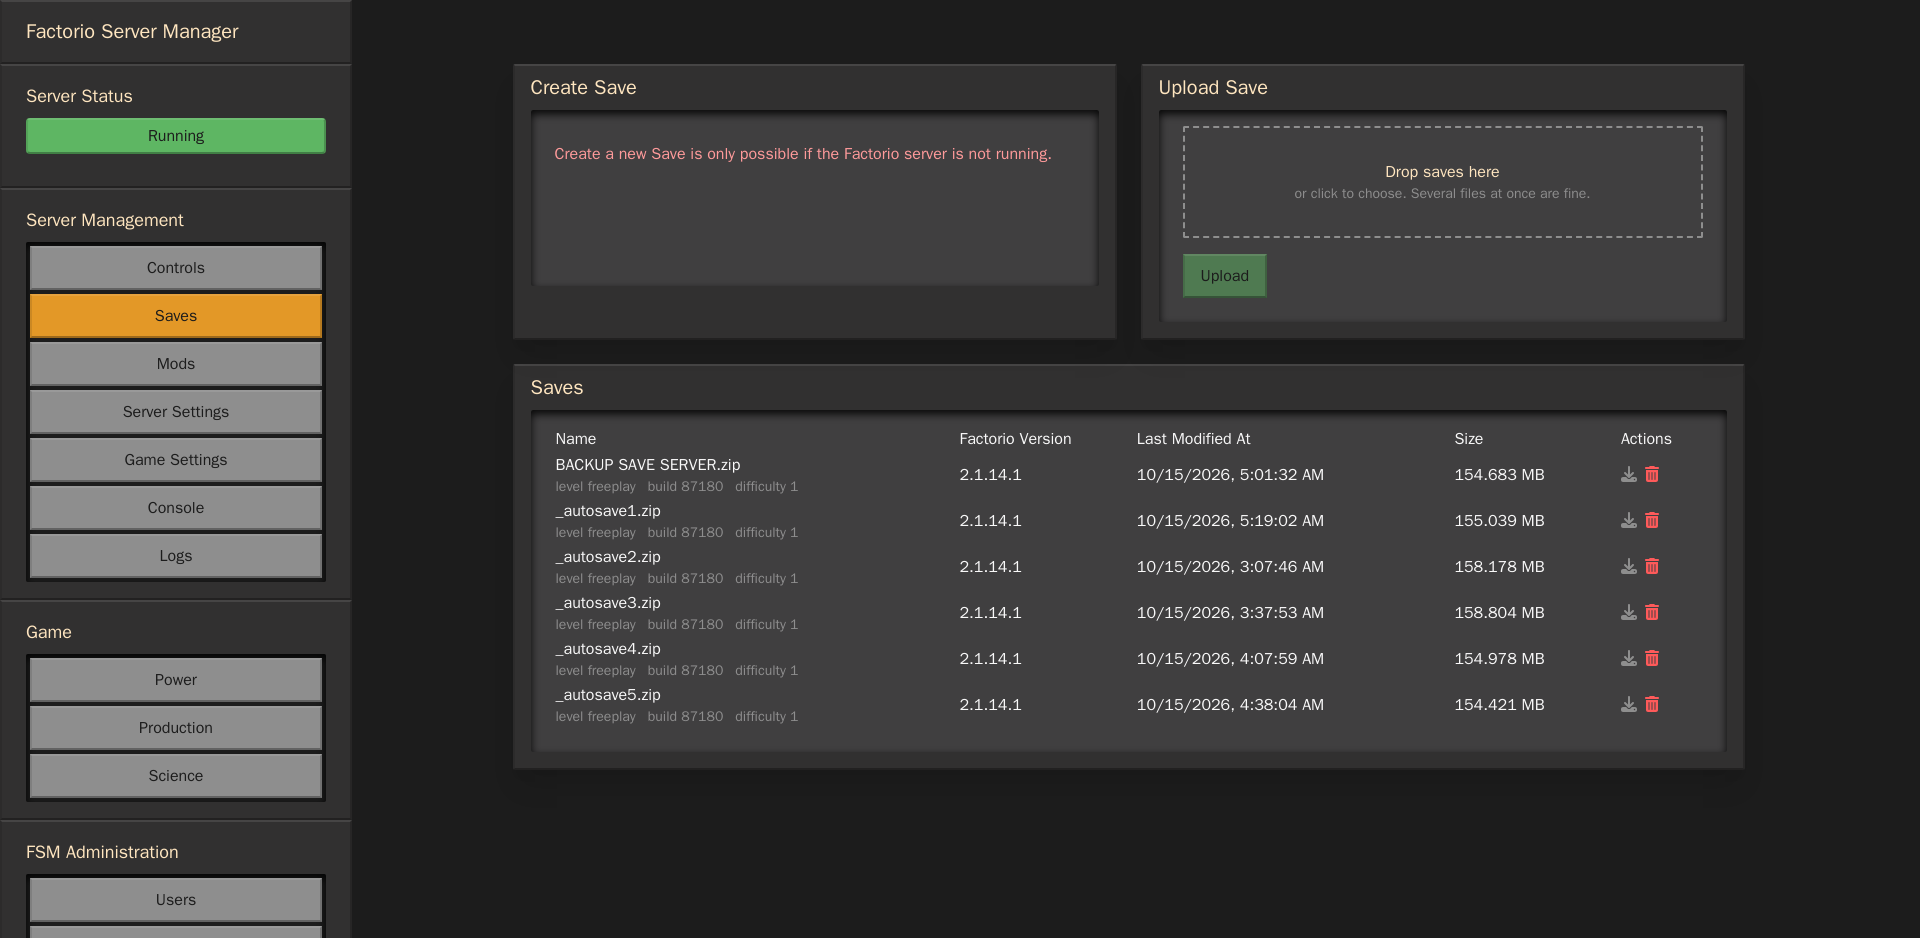
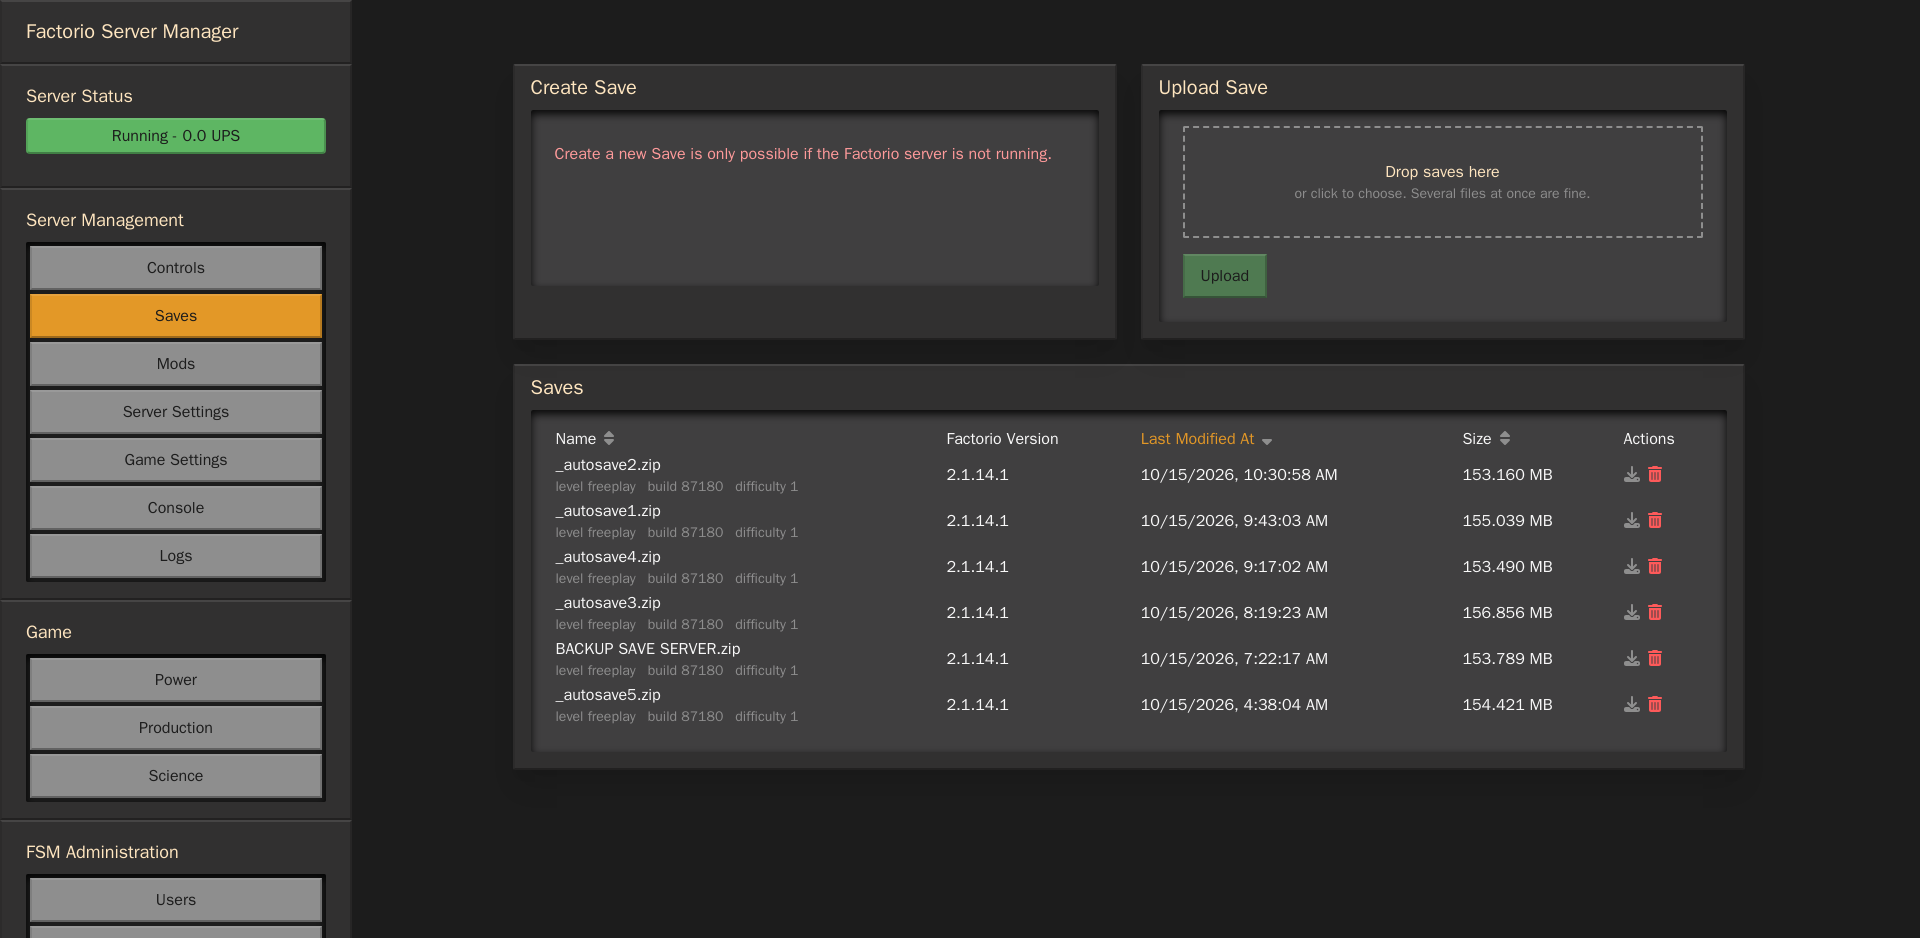
feat: sort the saves list by clicking a column header
Name, last modified and size are clickable: the first click sorts that column and
a second click reverses the order. Size and date open with the biggest and newest
first, a name opens at A. The active column is highlighted and carries
aria-sort, and the Factorio version column stays plain because its value arrives
from a separate header read, so sorting on it would reorder rows while the list
is being read.

diff --git a/ui/App/views/Saves/Saves.jsx b/ui/App/views/Saves/Saves.jsx
@@ -1,15 +1,16 @@
-import React, {useEffect, useState} from "react";
+import React, {useEffect, useMemo, useState} from "react";
 import savesResource from "../../../api/resources/saves";
 import Panel from "../../components/Panel";
 import CreateSaveForm from "./components/CreateSaveForm";
 import UploadSaveForm from "./components/UploadSaveForm";
 import {FontAwesomeIcon} from "@fortawesome/react-fontawesome";
-import {faDownload, faTrashAlt} from "@fortawesome/free-solid-svg-icons";
+import {faDownload, faSort, faSortDown, faSortUp, faTrashAlt} from "@fortawesome/free-solid-svg-icons";
 
 const Saves = ({serverStatus}) => {
 
     const [saves, setSaves] = useState([]);
     const [saveInfo, setSaveInfo] = useState({});
+    const [sort, setSort] = useState({column: null, ascending: true});
 
     const loadSaveInfo = (name) => {
         savesResource.info(name)
@@ -31,6 +32,55 @@ const Saves = ({serverStatus}) => {
     useEffect(() => {
         updateList();
     }, []);
+
+    // A header sorts by its column, and clicking it again reverses the order.
+    // Size and date start with the biggest and newest first, because that is what
+    // someone clicking them is looking for; a name starts at A.
+    const clickSort = column => {
+        setSort(current => {
+            if (current.column === column) {
+                return {column, ascending: !current.ascending};
+            }
+            return {column, ascending: column === 'name'};
+        });
+    };
+
+    const sortedSaves = useMemo(() => {
+        if (!sort.column) {
+            return saves;
+        }
+
+        const value = save => {
+            if (sort.column === 'size') {
+                return save.size ?? 0;
+            }
+            if (sort.column === 'last_mod') {
+                return new Date(save.last_mod ?? 0).getTime();
+            }
+            return String(save.name ?? '');
+        };
+
+        return [...saves].sort((a, b) => {
+            const left = value(a);
+            const right = value(b);
+            const order = typeof left === 'string' ? left.localeCompare(right) : left - right;
+            return sort.ascending ? order : -order;
+        });
+    }, [saves, sort]);
+
+    const SortHeader = ({column, children}) => {
+        const active = sort.column === column;
+        const icon = !active ? faSort : (sort.ascending ? faSortUp : faSortDown);
+
+        return (
+            <th className={`pr-4 cursor-pointer select-none hover:text-orange ${active ? 'text-orange' : ''}`}
+                onClick={() => clickSort(column)}
+                aria-sort={active ? (sort.ascending ? 'ascending' : 'descending') : 'none'}>
+                {children}
+                <FontAwesomeIcon className="ml-2 text-gray-light" icon={icon}/>
+            </th>
+        );
+    };
 
     const deleteSave = async (save) => {
         const res = await savesResource.delete(save);
@@ -91,15 +141,20 @@ const Saves = ({serverStatus}) => {
                         <table className="w-full">
                             <thead>
                             <tr className="text-left py-1">
-                                <th>Name</th>
-                                <th>Factorio Version</th>
-                                <th>Last Modified At</th>
-                                <th>Size</th>
+                                <SortHeader column="name">Name</SortHeader>
+                                <th className="pr-4">
+                                    Factorio Version
+                                    {/* no sorting here: the version comes from a
+                                        header read that arrives after the list, so
+                                        rows would reorder under the cursor */}
+                                </th>
+                                <SortHeader column="last_mod">Last Modified At</SortHeader>
+                                <SortHeader column="size">Size</SortHeader>
                                 <th>Actions</th>
                             </tr>
                             </thead>
                             <tbody>
-                            {saves.map(save => {
+                            {sortedSaves.map(save => {
                                 const info = saveInfo[save.name];
 
                                 return (

diff --git a/CHANGELOG.md b/CHANGELOG.md
@@ -8,6 +8,7 @@ The format is based on [Keep a Changelog](https://keepachangelog.com/en/1.0.0/).
 - A Game Speed panel on the Controls page: set the game's speed as a speed (1 = normal) or as a max UPS (0.5 = 30 UPS), Save applies it in game at once and the companion mod re-applies it after every save load. Only usable while the game is running, admin only. Each field owns its value while focused, the twin is solved on focus-out, and Save sends what was typed rather than what is displayed, so 1 max UPS stays 1 instead of 1.00002
 - Every manager-to-game call is now a plain mod command. The UPS sampler used to ask the game with `/sc` (a script command, which permanently disables achievements for a save); the companion mod's `companion-tick` and `companion-speed` commands are plain commands and used instead
 - The Server Status pill in the sidebar and on the Controls page reports the game's real update rate: the manager asks the game for its tick every 5 seconds and divides by wall time, so the pill reads `Running - 20.6 UPS`, and it goes to `Running - 0.0 UPS` when the game is paused
+- The Saves list sorts by clicking a column header: name, last modified or size, and clicking the same header again reverses the order (size and date start with the biggest and newest first). The Factorio version column is deliberately not sortable, since its value arrives from a separate header read and rows would reorder under the cursor
 - Credentials page under FSM Administration: sign in to the Factorio mod portal with a password or with a personal token, sign out, and see the account data the stored credentials reach (the account's bookmarked mods)
 - Role-based access. `admin` keeps full access; `user` is read-only: console, mod list, dashboard and server status only, with no logs, settings, saves, users or credentials
 - The Create User form can now create `user`-role accounts; it previously only ever created admins

diff --git a/README.md b/README.md
@@ -13,7 +13,7 @@ at the bottom of this file still apply where the two overlap.
 
 ## Features
 * Allows control of the Factorio Server, starting and stopping the Factorio binary.
-* Allows the management of save files, upload, download and delete saves.
+* Allows the management of save files, upload, download and delete saves, with a list that sorts by name, date or size on a click of the column
 * Manage installed mods, upload new ones and more
 * Manage modpacks, so it is easier to play with different configurations
 * Live dashboards for the running game: power per grid, production per planet and
